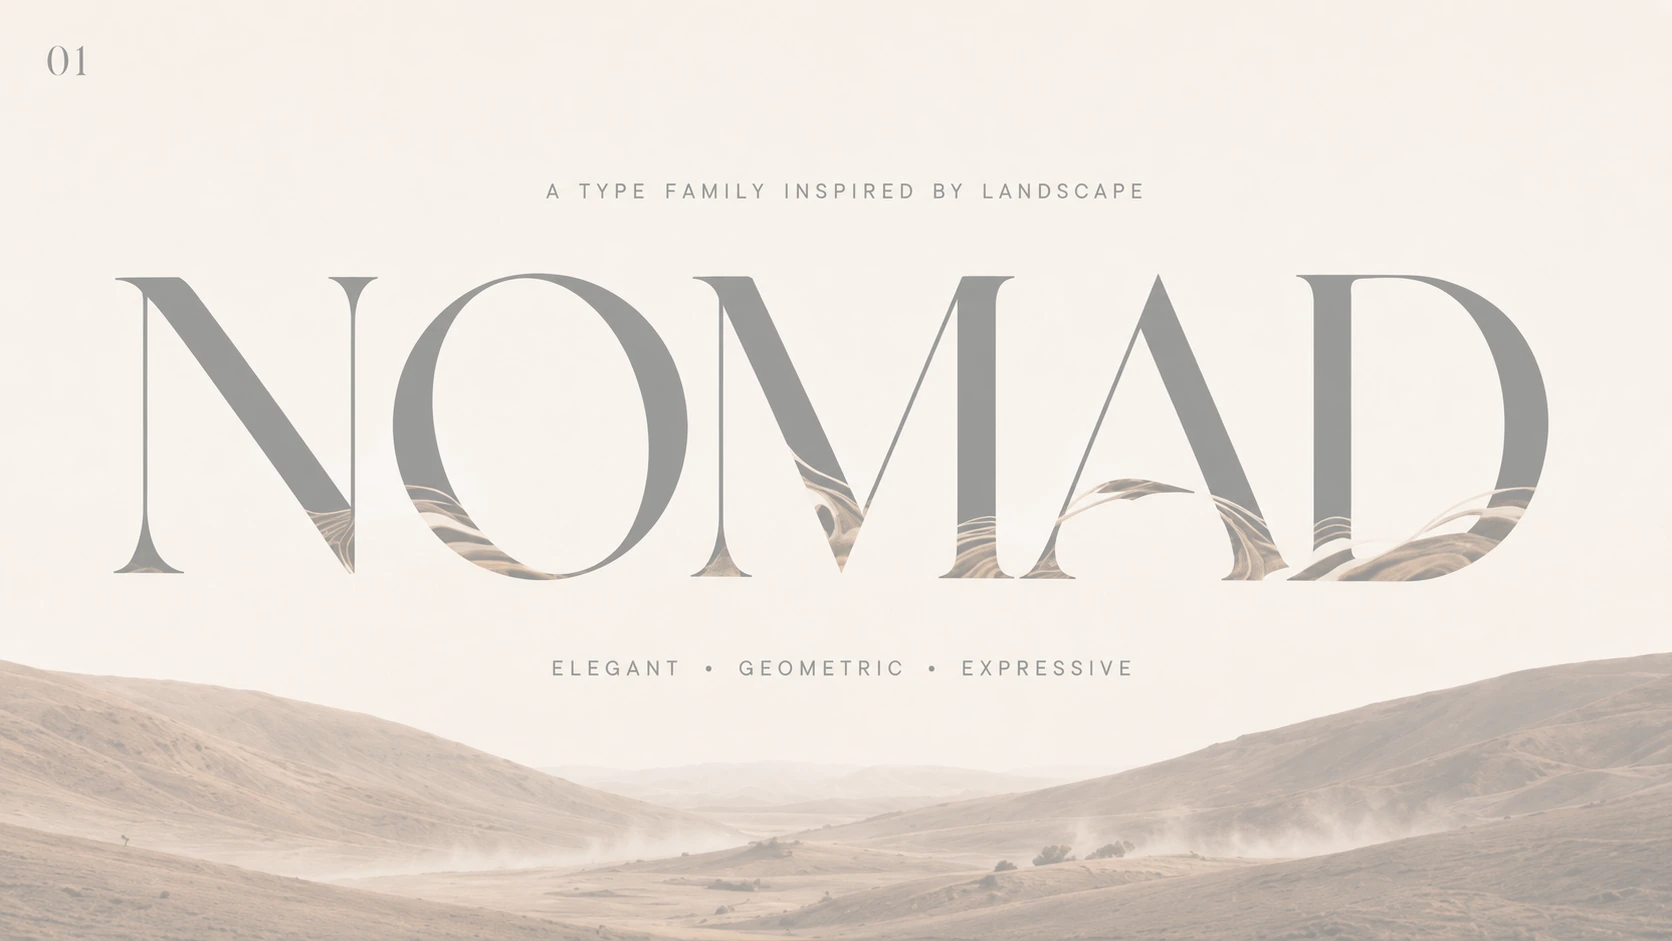
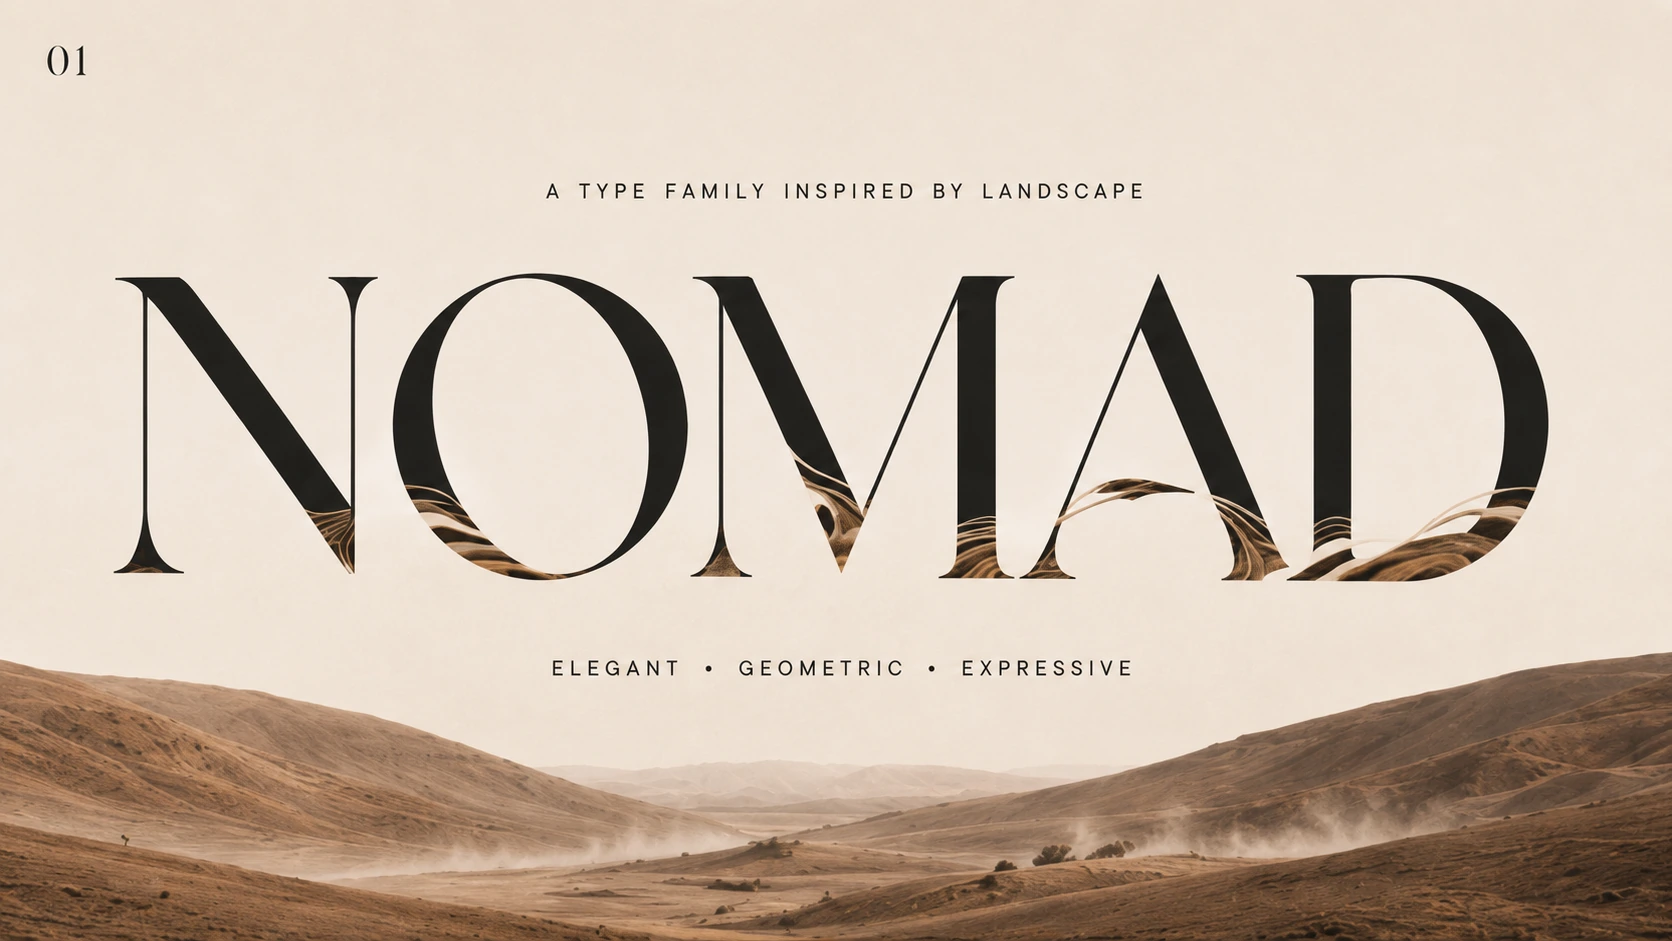
fix(textures): restore original textures, flip marquee to dark
User feedback on the previous luma-clamped textures: "תחזיר את הטקסטורות,
זה לא נראה טוב ככה". Re-encoded both typo textures from source without
the linear() contrast clamp — they're back to their full luma range and
visual richness. Background-size stays at 100% 100% so each glyph still
samples the entire texture (avoids the auto-280% letter-dropout).

Per Image #27, the marquee band gets the dark texture (typo-on-light) on
its ivory bg, not the light one. Marquee added to the default DARK group;
removed from the LIGHT override list.

Eyebrows still NEVER textured (solid brass, per impeccable: small text +
texture is unreadable).

diff --git a/css/components/texture-text.css b/css/components/texture-text.css
@@ -52,7 +52,8 @@
   .hall-venue h2,
   .hall-resort h1,
   .hall-resort h2,
-  .feature h3 {
+  .feature h3,
+  .marquee__text {
     background-repeat: no-repeat;
     background-size: 100% 100%;
     background-position: center;
@@ -74,16 +75,15 @@
   .hall-venue h2,
   .hall-resort h1,
   .hall-resort h2,
-  .feature h3 {
+  .feature h3,
+  .marquee__text {
     background-image: var(--typo-on-light);
   }
 
   /* ---- LIGHT texture override for content on dark surfaces, plus the
-     marquee band, the gallery title, and the kosher title (which the user
-     explicitly marked as "כתב כהה, טקסטורה בהירה"). Eyebrows are NOT
-     filled with texture by default; they stay solid brass at small sizes
-     (texture only earns its place at display sizes per the impeccable
-     guidance — small text + texture is unreadable). ---- */
+     gallery and kosher titles (user-marked "כתב כהה, טקסטורה בהירה").
+     Eyebrows stay solid (brass), per impeccable: texture only earns its
+     place at display sizes; small text + texture reads as a smudge. ---- */
   [data-bg="dark"] .section-header__title,
   .bg-dark .section-header__title,
   .culinary .section-header__title,
@@ -91,14 +91,11 @@
   .hero .section-header__title,
   .gallery .section-header__title,
   .kosher .section-header__title,
-  .marquee__text,
   .texture-text--light {
     background-image: var(--typo-on-dark) !important;
   }
 
-  /* The light-bg textures need the same paint base as the default group —
-     opt them in here so background-size/clip apply to them too. */
-  .marquee__text,
+  /* These extra titles also need the paint base (background-clip etc.). */
   .gallery .section-header__title,
   .kosher .section-header__title,
   .culinary .section-header__title,